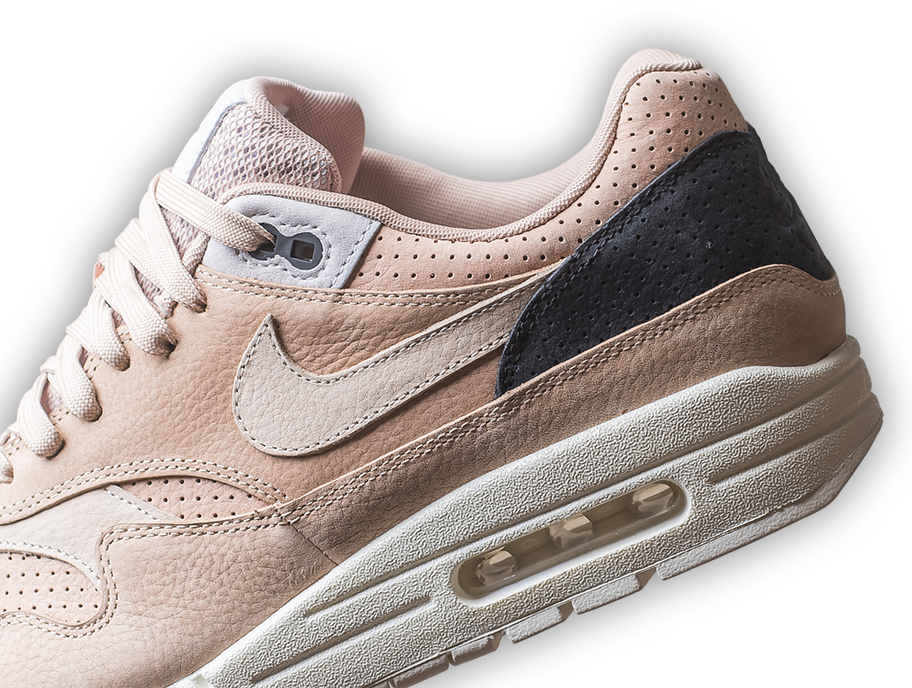
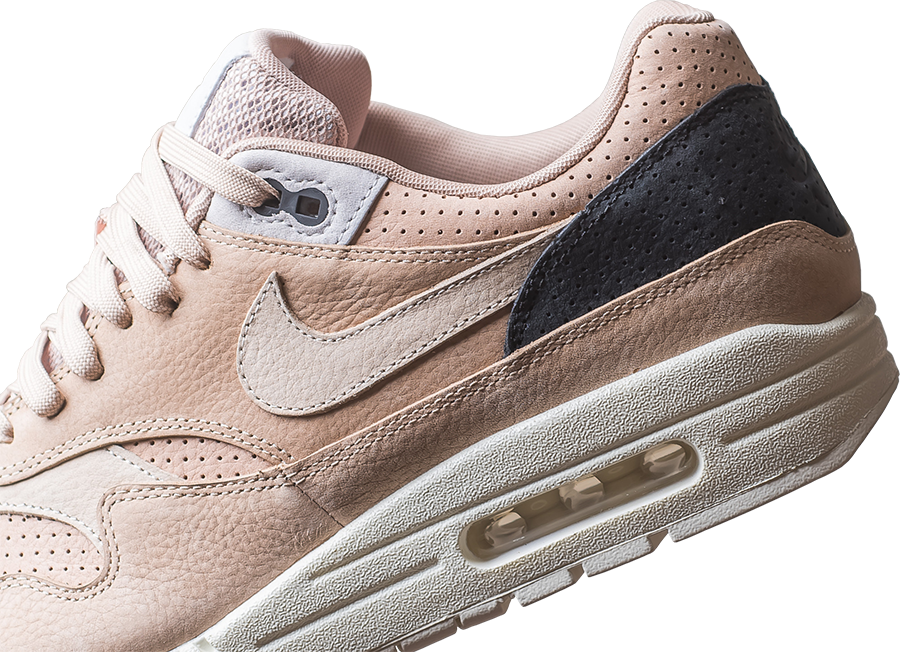
Обновил картинку для основного баннера

diff --git a/index.html b/index.html
@@ -65,7 +65,7 @@
     <main>
       <div class="main-banner">
         <div class="main-banner__container">
-          <img class="main-banner__img" src="img/main-banner.png" width="912" height="688" alt="Nike Air Max">
+          <img class="main-banner__img" src="img/main-banner.png" width="900" height="652" alt="Nike Air Max">
           <div class="main-banner__detail">
             <span class="main-banner__money">From $80.00</span>
             <strong class="main-banner__brand">Nike Air Max</strong>

diff --git a/less/blocks/main/main-banner.less b/less/blocks/main/main-banner.less
@@ -12,8 +12,8 @@
 .main-banner__img {
   display: block;
   position: absolute;
-  top: -88px;
-  left: -397px;
+  top: -53px;
+  left: -396px;
 }
 
 .main-banner__detail {
